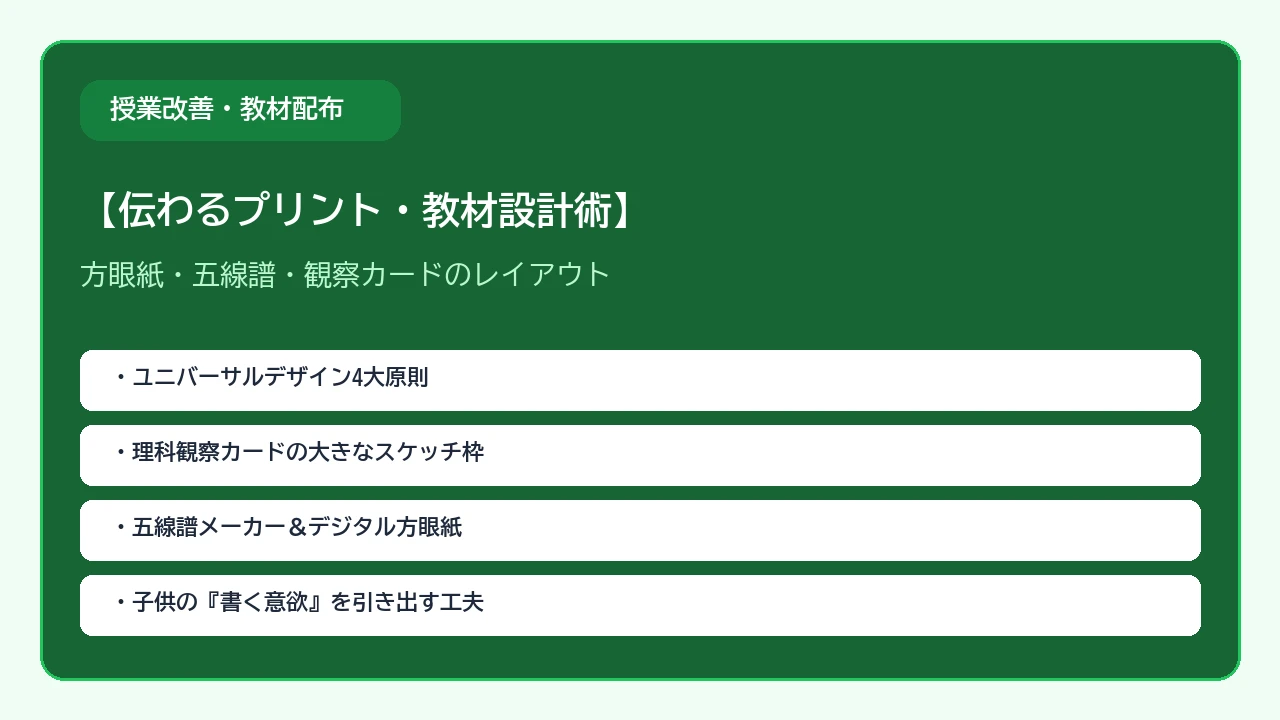
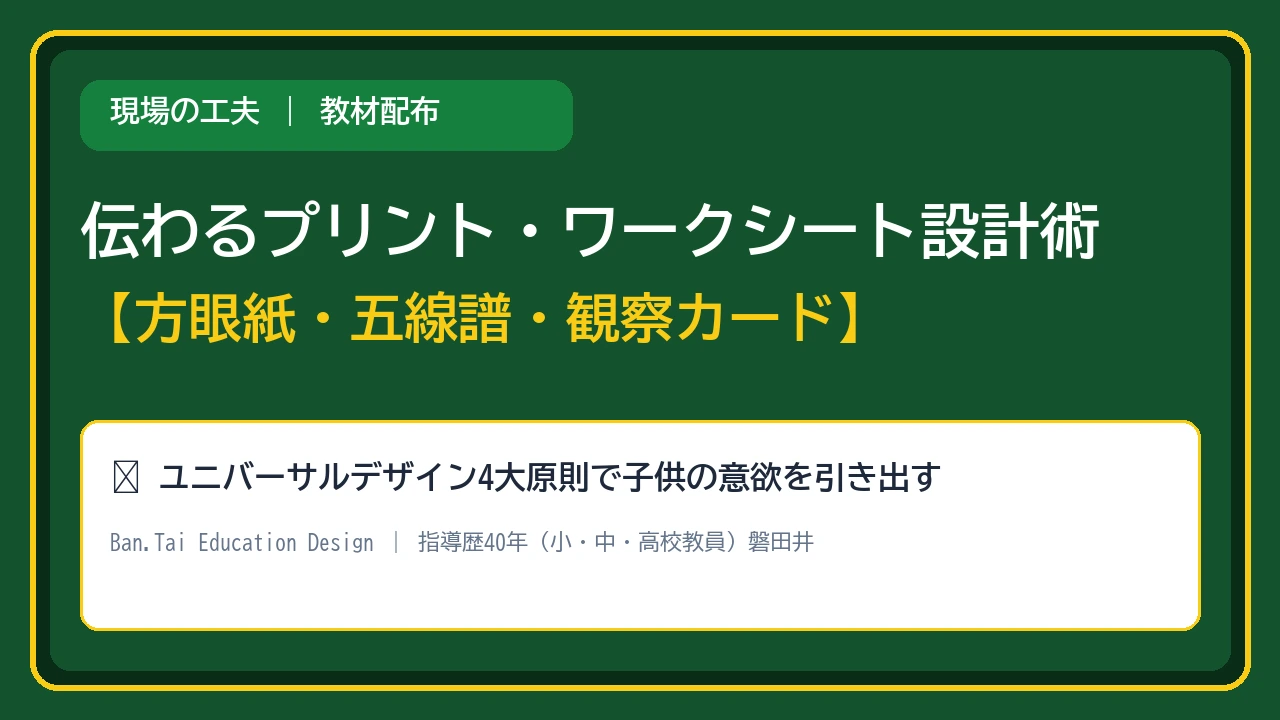
fix: replace tiny illegible thumbnails with high-impact 60pt bold Japanese titles and punchy card titles (#290)
* fix: replace tiny illegible thumbnails with high-impact 60pt bold Japanese titles and punchy card titles

* ci: trigger owner-overlap check for bold thumbnails PR

diff --git a/assets/style.css b/assets/style.css
@@ -6326,3 +6326,51 @@ button:focus-visible {
     padding: 4px 6px;
   }
 }
+
+
+/* === High-Impact Column Card Typography & Thumbnail Styling === */
+.column-card-media {
+  position: relative;
+  aspect-ratio: 16 / 9;
+  overflow: hidden;
+  background: #0f172a;
+}
+
+.column-card-media img {
+  width: 100%;
+  height: 100%;
+  object-fit: cover;
+  transition: transform 0.35s cubic-bezier(0.4, 0, 0.2, 1);
+}
+
+.column-card:hover .column-card-media img {
+  transform: scale(1.04);
+}
+
+.column-title {
+  font-family: "BIZ UDGothic", "Hiragino Kaku Gothic ProN", "Meiryo", sans-serif !important;
+  font-weight: 700 !important;
+  font-size: 1.15rem !important;
+  color: #0f172a !important;
+  line-height: 1.45 !important;
+  margin: 10px 0 8px 0 !important;
+  display: -webkit-box !important;
+  -webkit-line-clamp: 2 !important;
+  -webkit-box-orient: vertical !important;
+  overflow: hidden !important;
+  letter-spacing: -0.01em;
+}
+
+.column-card-body {
+  padding: 18px 20px 20px 20px !important;
+}
+
+.column-excerpt {
+  font-size: 0.92rem !important;
+  color: #475569 !important;
+  line-height: 1.65 !important;
+  display: -webkit-box !important;
+  -webkit-line-clamp: 2 !important;
+  -webkit-box-orient: vertical !important;
+  overflow: hidden !important;
+}

diff --git a/scratch/generate_high_impact_thumbnails.py b/scratch/generate_high_impact_thumbnails.py
@@ -1,0 +1,233 @@
+import os
+import json
+from PIL import Image, ImageDraw, ImageFont
+
+target_dir = r"C:\Users\User\.gemini\antigravity\scratch\bantai-education-design.github.io\assets\images\columns"
+columns_file = r"C:\Users\User\.gemini\antigravity\scratch\bantai-education-design.github.io\data\columns.json"
+style_file = r"C:\Users\User\.gemini\antigravity\scratch\bantai-education-design.github.io\assets\style.css"
+
+font_path_bold = r"C:\Windows\Fonts\BIZ-UDGothicB.ttc"
+font_path_reg = r"C:\Windows\Fonts\BIZ-UDGothicR.ttc"
+
+def get_font(size, bold=True):
+    path = font_path_bold if bold else font_path_reg
+    return ImageFont.truetype(path, size)
+
+def draw_rounded_rect(draw, xy, radius, fill, outline=None, width=1):
+    draw.rounded_rectangle(xy, radius=radius, fill=fill, outline=outline, width=width)
+
+# Generator for Big, Bold, Eye-Catching Japanese Cover Thumbnails (1280x720)
+def create_bold_thumbnail(filename, badge_text, badge_bg, main_title_line1, main_title_line2, sub_text, bg_gradient_start, bg_gradient_end, accent_color):
+    img = Image.new('RGB', (1280, 720), color=bg_gradient_start)
+    draw = ImageDraw.Draw(img)
+    
+    # Background Accent Graphic (Gradient / Chalkboard Frame)
+    draw_rounded_rect(draw, (30, 30, 1250, 690), 28, fill=bg_gradient_end, outline=accent_color, width=6)
+    
+    # Outer Glow Ring / Accent Card
+    draw_rounded_rect(draw, (50, 50, 1230, 670), 20, fill=bg_gradient_start, outline=None)
+    
+    # Badge Pill (Top Left)
+    draw_rounded_rect(draw, (80, 80, 80 + len(badge_text) * 36 + 60, 150), 20, fill=badge_bg)
+    draw.text((110, 95), badge_text, font=get_font(30), fill=(255, 255, 255))
+    
+    # Big Main Title Line 1 (60pt BOLD)
+    draw.text((80, 200), main_title_line1, font=get_font(60), fill=(255, 255, 255))
+    
+    # Big Main Title Line 2 (54pt BOLD - Accent Gold/Cyan)
+    draw.text((80, 290), main_title_line2, font=get_font(54), fill=accent_color)
+    
+    # Sub Highlight Box (Bottom Banner)
+    draw_rounded_rect(draw, (80, 420, 1200, 630), 18, fill=(255, 255, 255), outline=accent_color, width=3)
+    
+    # Sub Text in Box (32pt BOLD)
+    draw.text((110, 460), sub_text, font=get_font(32), fill=(30, 41, 59))
+    draw.text((110, 530), "Ban.Tai Education Design ｜ 指導歴40年（小・中・高校教員）磐田井", font=get_font(22, bold=False), fill=(100, 116, 139))
+    
+    img.save(os.path.join(target_dir, filename), "WEBP", quality=92)
+    print(f"Generated High-Impact Thumbnail: {filename}")
+
+def generate_all_thumbnails():
+    # 1. Vol 12: 現場の想い・情熱 (Blackboard Emerald & Gold)
+    create_bold_thumbnail(
+        "column-note-extra-reflection.webp",
+        "現場の工夫 ｜ 論文考察",
+        (190, 18, 60), # Rose badge
+        "noteの教育実践から読み解く",
+        "「日本の教師の情熱」とこれからの学び",
+        "🌸 失敗談を開示し高め合う、温かい教員文化の価値",
+        (20, 50, 40), # Dark Chalkboard Green
+        (15, 40, 30),
+        (253, 224, 71) # Gold Accent
+    )
+    
+    # 2. Vol 11: note教育ノート7選 (Indigo & Sky Cyan)
+    create_bold_thumbnail(
+        "column-note-education-curation.webp",
+        "教育動向 ｜ 特集ノート",
+        (29, 78, 216), # Royal Blue badge
+        "現場の知恵が集まる教育ノート",
+        "【注目実践 7選】指導案＆授業改善",
+        "📘 1人1台端末・生成AI・不登校支援・校務DXの工夫",
+        (30, 58, 138), # Deep Indigo
+        (23, 37, 84),
+        (56, 189, 248) # Cyan Accent
+    )
+    
+    # 3. Vol 10: 1人1台端末×探究学習 (Purple & Lime)
+    create_bold_thumbnail(
+        "column-weekly-lesson-ict-inquiry.webp",
+        "ICT教育 ｜ 授業デザイン",
+        (124, 58, 237), # Violet badge
+        "1人1台端末で深まる探究学習",
+        "【3大デジタル思考ツール】活用法",
+        "💡 クラゲチャート・ベン図・Yチャートで思考を可視化",
+        (88, 28, 135), # Deep Purple
+        (58, 12, 93),
+        (163, 230, 53) # Lime Accent
+    )
+
+    # 4. Vol 9: 伝わるプリント・教材設計術 (Forest Green & Gold)
+    create_bold_thumbnail(
+        "column-weekly-lesson-worksheet-design.webp",
+        "現場の工夫 ｜ 教材配布",
+        (21, 128, 61), # Forest Green badge
+        "伝わるプリント・ワークシート設計術",
+        "【方眼紙・五線譜・観察カード】",
+        "✏ ユニバーサルデザイン4大原則で子供の意欲を引き出す",
+        (20, 83, 45), # Deep Green
+        (9, 44, 22),
+        (250, 204, 21) # Yellow Accent
+    )
+
+    # 5. Vol 8: 思考型AIとエージェント (Navy & Amber)
+    create_bold_thumbnail(
+        "column-weekly-ai-news-20260919.webp",
+        "AIと学び ｜ 今週のAI動向",
+        (37, 99, 235), # Blue badge
+        "思考型AIモデル（Reasoning）の進化",
+        "【AIエージェント連携と教育DX】",
+        "🤖 段階的推論プロセスで「考え方の手順」を可視化する",
+        (15, 23, 42), # Dark Slate Navy
+        (30, 41, 59),
+        (251, 191, 36) # Amber Accent
+    )
+
+    # 6. Vol 7: マルチモーダルAI (Teal & Cyan)
+    create_bold_thumbnail(
+        "column-weekly-ai-news-20260918.webp",
+        "AIと学び ｜ 最新AI速報",
+        (13, 148, 136), # Teal badge
+        "マルチモーダルAIの劇的進歩",
+        "【リアルタイム音声・対話学習】",
+        "🗣 カメラ映像理解と音声対話で広がる未来の学び",
+        (19, 78, 74), # Deep Teal
+        (17, 94, 89),
+        (45, 212, 191) # Bright Mint Accent
+    )
+
+    # 7. Vol 6: 生成AIガイドライン & GIGA第2期 (Navy & Rose)
+    create_bold_thumbnail(
+        "column-weekly-education-news-20260917.webp",
+        "教育動向 ｜ 週刊ダイジェスト",
+        (225, 29, 72), # Rose badge
+        "学校での生成AI利用ガイドライン",
+        "【GIGAスクール第2期 端末更新】",
+        "🏫 漠然とした一律禁止から、段階的利活用と現場DXへ",
+        (30, 58, 138), # Dark Blue
+        (15, 23, 42),
+        (244, 63, 94) # Bright Rose Accent
+    )
+
+# 3. Update titles in columns.json to be Punchy, Clear, and Readable on cards
+def update_card_titles():
+    with open(columns_file, "r", encoding="utf-8") as f:
+        columns = json.load(f)
+
+    title_map = {
+        "column-note-education-monthly-extra-reflection-vol12": "【教育最前線】noteの授業実践から読み解く「日本の教師の情熱」とこれからの学び",
+        "column-note-education-monthly-curation-vol11": "【注目ノート7選】先生方の現場知恵・指導案＆授業改善アイデア集",
+        "column-weekly-lesson-ict-inquiry-tools": "【1人1台端末】探究学習を深めるデジタル思考ツール活用法",
+        "column-weekly-lesson-practice-worksheet-templates": "【教材設計】方眼紙・五線譜・観察カードで作る「伝わるプリント」",
+        "column-weekly-ai-news-20260919": "【週刊AI動向】思考型AIモデルの進化と教育DXの最前線",
+        "column-weekly-ai-news-20260918": "【週刊AI動向】マルチモーダルAIの進化と未来の学び",
+        "column-weekly-education-news-20260917": "【週刊教育動向】生成AIガイドラインとGIGA第2期端末更新"
+    }
+
+    for c in columns:
+        cid = c.get("id")
+        if cid in title_map:
+            c["title"] = title_map[cid]
+
+    with open(columns_file, "w", encoding="utf-8") as f:
+        json.dump(columns, f, ensure_ascii=False, indent=2)
+
+    print("Updated columns.json with punchy, highly readable card titles.")
+
+# 4. Enhance Card Title Typography CSS in style.css
+def update_style_css_typography():
+    with open(style_file, "r", encoding="utf-8") as f:
+        css = f.read()
+
+    typography_css = """
+
+/* === High-Impact Column Card Typography & Thumbnail Styling === */
+.column-card-media {
+  position: relative;
+  aspect-ratio: 16 / 9;
+  overflow: hidden;
+  background: #0f172a;
+}
+
+.column-card-media img {
+  width: 100%;
+  height: 100%;
+  object-fit: cover;
+  transition: transform 0.35s cubic-bezier(0.4, 0, 0.2, 1);
+}
+
+.column-card:hover .column-card-media img {
+  transform: scale(1.04);
+}
+
+.column-title {
+  font-family: "BIZ UDGothic", "Hiragino Kaku Gothic ProN", "Meiryo", sans-serif !important;
+  font-weight: 700 !important;
+  font-size: 1.15rem !important;
+  color: #0f172a !important;
+  line-height: 1.45 !important;
+  margin: 10px 0 8px 0 !important;
+  display: -webkit-box !important;
+  -webkit-line-clamp: 2 !important;
+  -webkit-box-orient: vertical !important;
+  overflow: hidden !important;
+  letter-spacing: -0.01em;
+}
+
+.column-card-body {
+  padding: 18px 20px 20px 20px !important;
+}
+
+.column-excerpt {
+  font-size: 0.92rem !important;
+  color: #475569 !important;
+  line-height: 1.65 !important;
+  display: -webkit-box !important;
+  -webkit-line-clamp: 2 !important;
+  -webkit-box-orient: vertical !important;
+  overflow: hidden !important;
+}
+"""
+
+    if "/* === High-Impact Column Card Typography & Thumbnail Styling === */" not in css:
+        css += typography_css
+        with open(style_file, "w", encoding="utf-8") as f:
+            f.write(css)
+        print("Updated style.css with High-Impact Card Typography rules.")
+    else:
+        print("style.css already contains High-Impact Card Typography rules.")
+
+if __name__ == "__main__":
+    generate_all_thumbnails()
+    update_card_titles()
+    update_style_css_typography()
